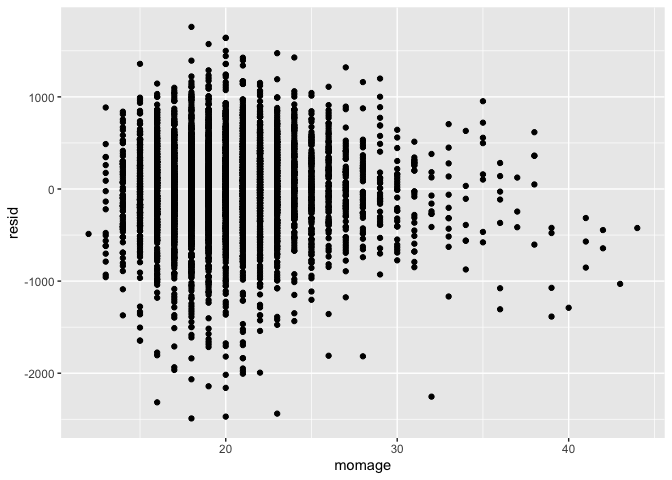
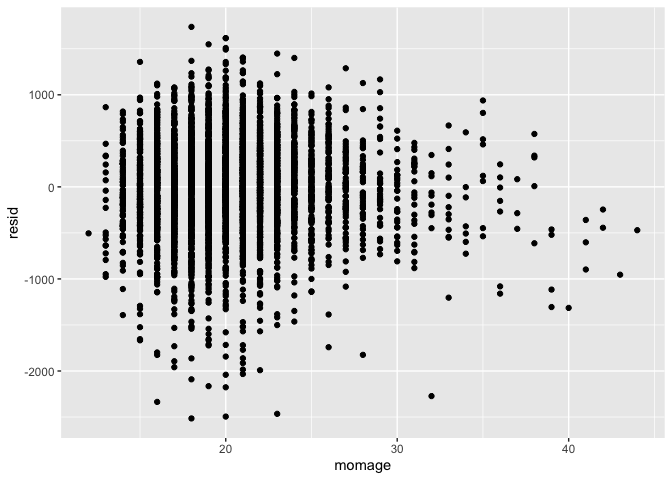
Completed model 2, as per the homework specs.

diff --git a/p8105_hw6_mk4022.md b/p8105_hw6_mk4022.md
@@ -47,13 +47,22 @@ bw_data
     ## #   ppbmi <dbl>, ppwt <dbl>, smoken <dbl>, wtgain <dbl>
 
 *Part B:* Propose a regression model for birthweight.  
-The model I created as ‘fit1’ is based on evidence supporting that
-mother’s age and history of previous low birthweight births are
-predictive of additional low birthweight children. I also included sex
-and presence of malformations that could impact weight so that we can
-control for these factors which may be potential confounders.
+\* The model I created as ‘fit1’ is based on evidence supporting that
+mother’s age, smoking status/quantity, and history of previous low
+birthweight births are predictive of giving birth to a child with low
+birthweight. I also included sex and presence of malformations that
+could impact weight so that we can control for these factors which may
+be potential confounders.  
+\* I will use the A1C of each model to determine the best model.  
+\* The A1C of model ‘fit1’ is 66364.13.  
+\* The A1C of model ‘fit2’ is 62770.34.  
+\* The A1C of model ‘fit3’ is .  
+\* According to the A1C’s of the above three models, the best model for
+this dataset is model ‘fitx’.
 
 ``` r
+##### Model 1 #####
+#set references for factor variables
 bw_data = 
   bw_data %>% 
   mutate(
@@ -61,21 +70,24 @@ bw_data =
     babysex = fct_infreq(babysex)
   )
 
-fit1 = lm(bwt ~ momage + pnumlbw + babysex + malform, data = bw_data)
+#create linear model
+fit1 = lm(bwt ~ momage + pnumlbw + smoken + babysex + malform, data = bw_data)
 fit1
 ```
 
     ## 
     ## Call:
-    ## lm(formula = bwt ~ momage + pnumlbw + babysex + malform, data = bw_data)
+    ## lm(formula = bwt ~ momage + pnumlbw + smoken + babysex + malform, 
+    ##     data = bw_data)
     ## 
     ## Coefficients:
-    ##    (Intercept)          momage         pnumlbw   babysexfemale  
-    ##        2799.25           17.54              NA          -83.76  
-    ## malformpresent  
-    ##         -21.77
+    ##    (Intercept)          momage         pnumlbw          smoken  
+    ##       2808.054          18.401              NA          -6.117  
+    ##  babysexfemale  malformpresent  
+    ##        -85.974           2.480
 
 ``` r
+#tidy output
 fit1 %>% 
   broom::tidy() %>%
   select(term, estimate, p.value) %>% 
@@ -84,12 +96,26 @@ fit1 %>%
 
 | term           | estimate | p.value |
 | :------------- | -------: | ------: |
-| (Intercept)    | 2799.254 |   0.000 |
-| momage         |   17.536 |   0.000 |
-| babysexfemale  | \-83.759 |   0.000 |
-| malformpresent | \-21.774 |   0.868 |
+| (Intercept)    | 2808.054 |   0.000 |
+| momage         |   18.401 |   0.000 |
+| smoken         |  \-6.117 |   0.000 |
+| babysexfemale  | \-85.974 |   0.000 |
+| malformpresent |    2.480 |   0.985 |
 
 ``` r
+#view A1C and other output parameters
+fit1 %>% 
+  broom::glance() 
+```
+
+    ## # A tibble: 1 x 11
+    ##   r.squared adj.r.squared sigma statistic  p.value    df  logLik    AIC
+    ##       <dbl>         <dbl> <dbl>     <dbl>    <dbl> <int>   <dbl>  <dbl>
+    ## 1    0.0329        0.0320  504.      36.9 2.37e-30     5 -33176. 66364.
+    ## # … with 3 more variables: BIC <dbl>, deviance <dbl>, df.residual <int>
+
+``` r
+#add residuals and predictions
 modelr::add_residuals(bw_data, fit1)
 ```
 
@@ -138,6 +164,7 @@ modelr::add_predictions(bw_data, fit1)
     ## #   ppbmi <dbl>, ppwt <dbl>, smoken <dbl>, wtgain <dbl>, pred <dbl>
 
 ``` r
+#plot residuals by mom's age
 bw_data %>% 
   modelr::add_residuals(fit1) %>% 
   ggplot(aes(x = momage, y = resid)) + geom_point()
@@ -147,3 +174,101 @@ bw_data %>%
     ## may be misleading
 
 ![](p8105_hw6_mk4022_files/figure-gfm/unnamed-chunk-2-1.png)<!-- -->
+
+``` r
+##### Model 2 #####
+
+#create linear model
+fit2 = lm(bwt ~ blength + gaweeks, data = bw_data)
+fit2
+```
+
+    ## 
+    ## Call:
+    ## lm(formula = bwt ~ blength + gaweeks, data = bw_data)
+    ## 
+    ## Coefficients:
+    ## (Intercept)      blength      gaweeks  
+    ##    -4347.67       128.56        27.05
+
+``` r
+#tidy output
+fit2 %>% 
+  broom::tidy() %>%
+  select(term, estimate, p.value) %>% 
+  knitr::kable(digits = 3)
+```
+
+| term        |   estimate | p.value |
+| :---------- | ---------: | ------: |
+| (Intercept) | \-4347.667 |       0 |
+| blength     |    128.556 |       0 |
+| gaweeks     |     27.047 |       0 |
+
+``` r
+#view A1C and other output parameters
+fit2 %>% 
+  broom::glance() 
+```
+
+    ## # A tibble: 1 x 11
+    ##   r.squared adj.r.squared sigma statistic p.value    df  logLik    AIC
+    ##       <dbl>         <dbl> <dbl>     <dbl>   <dbl> <int>   <dbl>  <dbl>
+    ## 1     0.577         0.577  333.     2958.       0     3 -31381. 62771.
+    ## # … with 3 more variables: BIC <dbl>, deviance <dbl>, df.residual <int>
+
+``` r
+#add residuals and predictions
+modelr::add_residuals(bw_data, fit2)
+```
+
+    ## # A tibble: 4,342 x 21
+    ##    babysex bhead blength   bwt delwt fincome frace gaweeks malform menarche
+    ##    <fct>   <dbl>   <dbl> <dbl> <dbl>   <dbl> <fct>   <dbl> <fct>      <dbl>
+    ##  1 female     34      51  3629   177      35 white    39.9 absent        13
+    ##  2 male       34      48  3062   156      65 black    25.9 absent        14
+    ##  3 female     36      50  3345   148      85 white    39.9 absent        12
+    ##  4 male       34      52  3062   157      55 white    40   absent        14
+    ##  5 female     34      52  3374   156       5 white    41.6 absent        13
+    ##  6 male       33      52  3374   129      55 white    40.7 absent        12
+    ##  7 female     33      46  2523   126      96 black    40.3 absent        14
+    ##  8 female     33      49  2778   140       5 white    37.4 absent        12
+    ##  9 male       36      52  3515   146      85 white    40.3 absent        11
+    ## 10 male       33      50  3459   169      75 black    40.7 absent        12
+    ## # … with 4,332 more rows, and 11 more variables: mheight <dbl>,
+    ## #   momage <dbl>, mrace <fct>, parity <dbl>, pnumlbw <dbl>, pnumsga <dbl>,
+    ## #   ppbmi <dbl>, ppwt <dbl>, smoken <dbl>, wtgain <dbl>, resid <dbl>
+
+``` r
+modelr::add_predictions(bw_data, fit2)
+```
+
+    ## # A tibble: 4,342 x 21
+    ##    babysex bhead blength   bwt delwt fincome frace gaweeks malform menarche
+    ##    <fct>   <dbl>   <dbl> <dbl> <dbl>   <dbl> <fct>   <dbl> <fct>      <dbl>
+    ##  1 female     34      51  3629   177      35 white    39.9 absent        13
+    ##  2 male       34      48  3062   156      65 black    25.9 absent        14
+    ##  3 female     36      50  3345   148      85 white    39.9 absent        12
+    ##  4 male       34      52  3062   157      55 white    40   absent        14
+    ##  5 female     34      52  3374   156       5 white    41.6 absent        13
+    ##  6 male       33      52  3374   129      55 white    40.7 absent        12
+    ##  7 female     33      46  2523   126      96 black    40.3 absent        14
+    ##  8 female     33      49  2778   140       5 white    37.4 absent        12
+    ##  9 male       36      52  3515   146      85 white    40.3 absent        11
+    ## 10 male       33      50  3459   169      75 black    40.7 absent        12
+    ## # … with 4,332 more rows, and 11 more variables: mheight <dbl>,
+    ## #   momage <dbl>, mrace <fct>, parity <dbl>, pnumlbw <dbl>, pnumsga <dbl>,
+    ## #   ppbmi <dbl>, ppwt <dbl>, smoken <dbl>, wtgain <dbl>, pred <dbl>
+
+``` r
+#plot residuals by mom's age
+bw_data %>% 
+  modelr::add_residuals(fit2) %>% 
+  ggplot(aes(x = gaweeks, y = resid)) + geom_point()
+```
+
+![](p8105_hw6_mk4022_files/figure-gfm/unnamed-chunk-2-2.png)<!-- -->
+
+``` r
+##### Model 3 #####
+```
